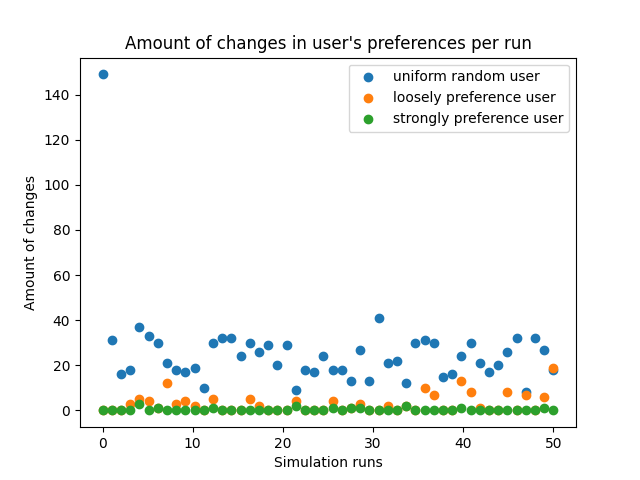
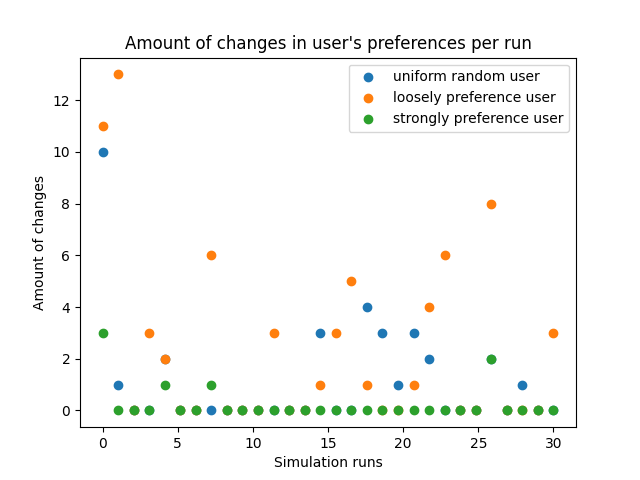
user changes graph

diff --git a/Simulation_Environment.py b/Simulation_Environment.py
@@ -170,7 +170,7 @@ class Model:
         self.agents_list = self.prof_gen.generate(num_users)
         self.store.close_time = duration
         self.changes_for_iter = {'uniform':[0]*repeat, 'loosely':[0]*repeat, 'strongly':[0]*repeat}
-        self.type_agents_for_iter = {'uniform':[0]*repeat, 'loosely':[0]*repeat, 'strongly':[0]*repeat}
+        # self.type_agents_for_iter = {'uniform':[0]*repeat, 'loosely':[0]*repeat, 'strongly':[0]*repeat}
         for i in range(repeat):
             self.run()
             self.process_iteration(i,self.store.agents_changes)
@@ -238,22 +238,28 @@ class Model:
         plt.title('Amount of changes in user\'s preferences per run')
         plt.savefig('content-based results.png')
         # plt.show()
-        uniform_norm = []
-        loosely_norm = []
-        strongly_norm = []
+        uniform_cum = []
+        loosely_cum = []
+        strongly_cum = []
         for i in range(iterations):
-            uniform_norm[i] = uniform[i] / self.type_agents_for_iter['uniform'][i]
-            loosely_norm[i] = loosely[i] / self.type_agents_for_iter['loosely'][i]
-            strongly_norm[i] = strongly[i] / self.type_agents_for_iter['strongly'][i]
+            if i == 0:
+                uniform_cum.append(uniform[i])
+                loosely_cum.append(loosely[i])
+                strongly_cum.append(strongly[i])
+            else:
+                uniform_cum.append(uniform_cum[i-1] + uniform[i])
+                loosely_cum.append(loosely_cum[i-1] + loosely[i])
+                strongly_cum.append(strongly_cum[i-1] + strongly[i])
         plt.figure(2)
-        plt.scatter(t,uniform_norm)
-        plt.scatter(t,loosely_norm)
-        plt.scatter(t,strongly_norm)
+        plt.plot(t,uniform_cum)#, 'r', label='uniform random user')
+        plt.plot(t,loosely_cum)#, 'b', label='loosely preference user')
+        plt.plot(t,strongly_cum)#, 'g', label='strongly preference user')
         plt.legend(['uniform random user', 'loosely preference user', 'strongly preference user'])
         plt.xlabel('Simulation runs')
-        plt.ylabel('Normalized amount of changes')
-        plt.title('Normalized amount of changes in user\'s preferences per run')
-        plt.savefig('content-based results normalized.png')
+        plt.ylabel('Cumulative amount of changes')
+        plt.title('Cumulative amount of changes in user\'s preferences per run')
+        plt.savefig('content-based results cumulative.png')
+        # plt.show()
         
         print('Mean of uniform random users changes: ',np.mean(uniform))
         print('Median of uniform random users changes: ',np.median(uniform))
@@ -268,18 +274,18 @@ class Model:
             ag:agent.Agent = self.agents_list[ag_index]
             if type(ag) is agent.UniformAgent:
                 self.changes_for_iter['uniform'][iter] += len(changes_list[id])
-                self.type_agents_for_iter['uniform'][iter] +=1
+                # self.type_agents_for_iter['uniform'][iter] +=1
             elif type(ag) is agent.LooselyPreferenceAgent:
                 self.changes_for_iter['loosely'][iter] += len(changes_list[id])
-                self.type_agents_for_iter['loosely'][iter] +=1
+                # self.type_agents_for_iter['loosely'][iter] +=1
             elif type(ag) is agent.StronglyPreferenceAgent:
                 self.changes_for_iter['strongly'][iter] += len(changes_list[id])
-                self.type_agents_for_iter['strongly'][iter] +=1
+                # self.type_agents_for_iter['strongly'][iter] +=1
             else:
                 pass
 
 start = time.time()
 model = Model('content_based')
-model.simulate(repeat=50,duration=1440)
+model.simulate(repeat=30,duration=1440)
 end = time.time()
 print('running time', round(end - start,4))

diff --git a/Agents.py b/Agents.py
@@ -154,7 +154,7 @@ class UniformAgent(Agent):
         changed = []
         if add_to_preference == 'yes':
             for i in range(len(rates)):
-                if rnd.choice([True,False]):
+                if rates[i] > 0:
                     self.preference[songs[i].id] = rnd.uniform(0,1)
                     changed.append(songs[i])
         return changed
